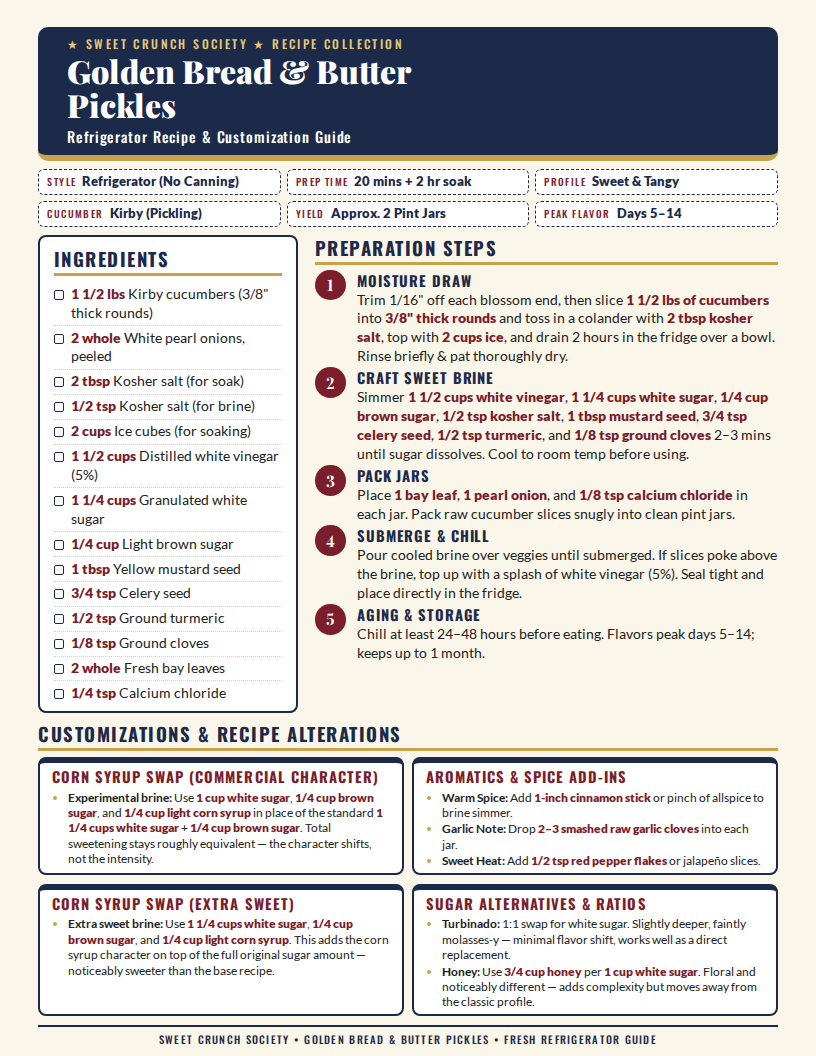
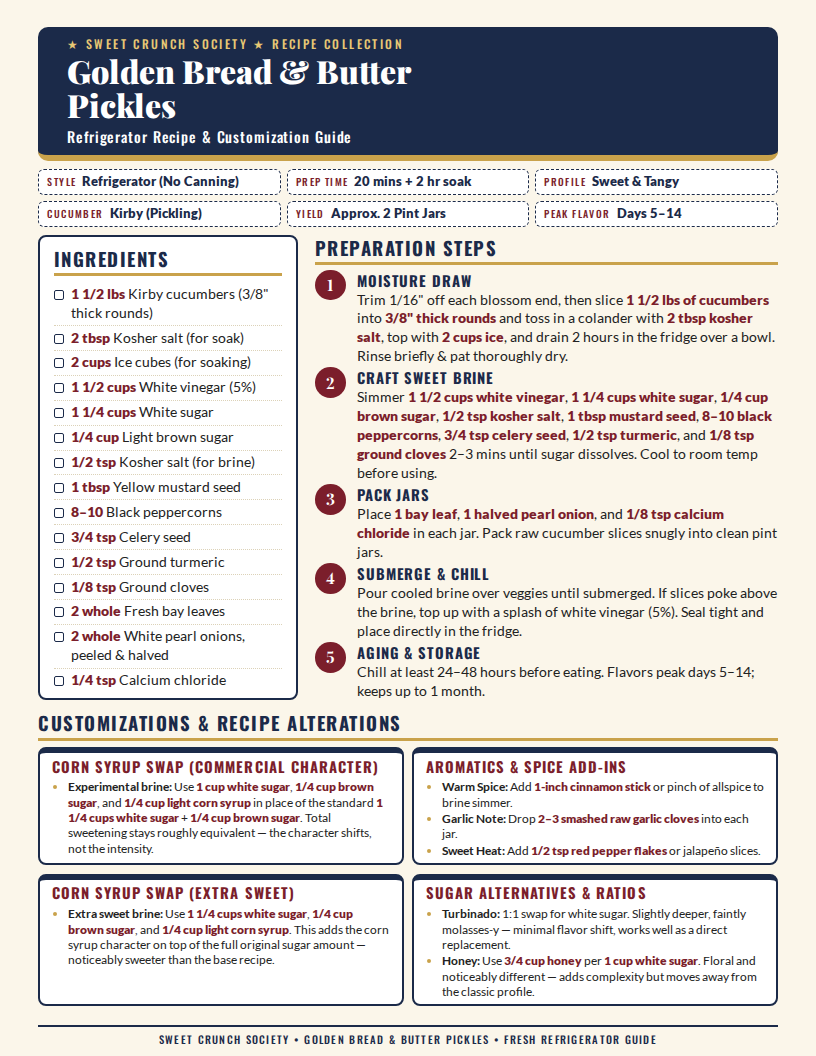
feat: add peppercorns and halved pearl onions; order ingredients by use
Bread & Butter (index.html):
- Add 8-10 black peppercorns to the brine (ingredient + step 2).
- Pearl onions are now peeled & halved (ingredient), and step 3 packs
  1 halved pearl onion per jar.
- Shorten "Distilled white vinegar (5%)" to "White vinegar (5%)" and
  "Granulated white sugar" to "White sugar" to match the steps; the extra
  wrapped lines pushed the customization cards into the footer.

Both recipes:
- Reorder the ingredients list to follow the order they are used in the
  steps (soak, brine, then jar packing). Zesty lists garlic after the
  brine spices since it is added at the end of the simmer, then bay
  leaves, dill, and calcium chloride for packing.
- Regenerated docs/preview.png and docs/preview-zesty.png; both sheets
  fit the letter page with clearance above the footer.

README.md needs no change (no ingredient lists or order referenced).

Changed region(s): [[0.0306, 0.3125, 0.9498, 0.9688]]

diff --git a/index.html b/index.html
@@ -142,18 +142,19 @@
           <h2 class="sec" id="ing">Ingredients</h2>
           <ul>
             <li><span class="box"></span><span><b>1 1/2 lbs</b> Kirby cucumbers (3/8" thick rounds)</span></li>
-            <li><span class="box"></span><span><b>2 whole</b> White pearl onions, peeled</span></li>
             <li><span class="box"></span><span><b>2 tbsp</b> Kosher salt (for soak)</span></li>
-            <li><span class="box"></span><span><b>1/2 tsp</b> Kosher salt (for brine)</span></li>
             <li><span class="box"></span><span><b>2 cups</b> Ice cubes (for soaking)</span></li>
-            <li><span class="box"></span><span><b>1 1/2 cups</b> Distilled white vinegar (5%)</span></li>
-            <li><span class="box"></span><span><b>1 1/4 cups</b> Granulated white sugar</span></li>
+            <li><span class="box"></span><span><b>1 1/2 cups</b> White vinegar (5%)</span></li>
+            <li><span class="box"></span><span><b>1 1/4 cups</b> White sugar</span></li>
             <li><span class="box"></span><span><b>1/4 cup</b> Light brown sugar</span></li>
+            <li><span class="box"></span><span><b>1/2 tsp</b> Kosher salt (for brine)</span></li>
             <li><span class="box"></span><span><b>1 tbsp</b> Yellow mustard seed</span></li>
+            <li><span class="box"></span><span><b>8–10</b> Black peppercorns</span></li>
             <li><span class="box"></span><span><b>3/4 tsp</b> Celery seed</span></li>
             <li><span class="box"></span><span><b>1/2 tsp</b> Ground turmeric</span></li>
             <li><span class="box"></span><span><b>1/8 tsp</b> Ground cloves</span></li>
             <li><span class="box"></span><span><b>2 whole</b> Fresh bay leaves</span></li>
+            <li><span class="box"></span><span><b>2 whole</b> White pearl onions, peeled &amp; halved</span></li>
             <li><span class="box"></span><span><b>1/4 tsp</b> Calcium chloride</span></li>
           </ul>
         </div>
@@ -163,8 +164,8 @@
         <h2 class="sec" id="prep">Preparation Steps</h2>
         <ol class="steps">
           <li><b>Moisture Draw</b>Trim 1/16" off each blossom end, then slice <strong>1 1/2 lbs of cucumbers</strong> into <strong>3/8" thick rounds</strong> and toss in a colander with <strong>2 tbsp kosher salt</strong>, top with <strong>2 cups ice</strong>, and drain 2 hours in the fridge over a bowl. Rinse briefly &amp; pat thoroughly dry.</li>
-          <li><b>Craft Sweet Brine</b>Simmer <strong>1 1/2 cups white vinegar</strong>, <strong>1 1/4 cups white sugar</strong>, <strong>1/4 cup brown sugar</strong>, <strong>1/2 tsp kosher salt</strong>, <strong>1 tbsp mustard seed</strong>, <strong>3/4 tsp celery seed</strong>, <strong>1/2 tsp turmeric</strong>, and <strong>1/8 tsp ground cloves</strong> 2–3 mins until sugar dissolves. Cool to room temp before using.</li>
-          <li><b>Pack Jars</b>Place <strong>1 bay leaf</strong>, <strong>1 pearl onion</strong>, and <strong>1/8 tsp calcium chloride</strong> in each jar. Pack raw cucumber slices snugly into clean pint jars.</li>
+          <li><b>Craft Sweet Brine</b>Simmer <strong>1 1/2 cups white vinegar</strong>, <strong>1 1/4 cups white sugar</strong>, <strong>1/4 cup brown sugar</strong>, <strong>1/2 tsp kosher salt</strong>, <strong>1 tbsp mustard seed</strong>, <strong>8–10 black peppercorns</strong>, <strong>3/4 tsp celery seed</strong>, <strong>1/2 tsp turmeric</strong>, and <strong>1/8 tsp ground cloves</strong> 2–3 mins until sugar dissolves. Cool to room temp before using.</li>
+          <li><b>Pack Jars</b>Place <strong>1 bay leaf</strong>, <strong>1 halved pearl onion</strong>, and <strong>1/8 tsp calcium chloride</strong> in each jar. Pack raw cucumber slices snugly into clean pint jars.</li>
           <li><b>Submerge &amp; Chill</b>Pour cooled brine over veggies until submerged. If slices poke above the brine, top up with a splash of white vinegar (5%). Seal tight and place directly in the fridge.</li>
           <li><b>Aging &amp; Storage</b>Chill at least 24–48 hours before eating. Flavors peak <span style="white-space:nowrap">days 5–14</span>; keeps up to 1 month.</li>
         </ol>

diff --git a/index-zesty.html b/index-zesty.html
@@ -148,12 +148,12 @@
             <li><span class="box"></span><span><b>1 cup</b> Water</span></li>
             <li><span class="box"></span><span><b>1 tbsp</b> Kosher salt (for brine)</span></li>
             <li><span class="box"></span><span><b>1 tsp</b> Granulated white sugar</span></li>
-            <li><span class="box"></span><span><b>6 cloves</b> Garlic, smashed</span></li>
-            <li><span class="box"></span><span><b>4 sprigs</b> Fresh dill</span></li>
             <li><span class="box"></span><span><b>1 tsp</b> Black peppercorns</span></li>
             <li><span class="box"></span><span><b>1/2 tsp</b> Yellow mustard seed</span></li>
             <li><span class="box"></span><span><b>1/4 tsp</b> Coriander seed</span></li>
+            <li><span class="box"></span><span><b>6 cloves</b> Garlic, smashed</span></li>
             <li><span class="box"></span><span><b>2 whole</b> Fresh bay leaves</span></li>
+            <li><span class="box"></span><span><b>4 sprigs</b> Fresh dill</span></li>
             <li><span class="box"></span><span><b>1/4 tsp</b> Calcium chloride</span></li>
           </ul>
         </div>
